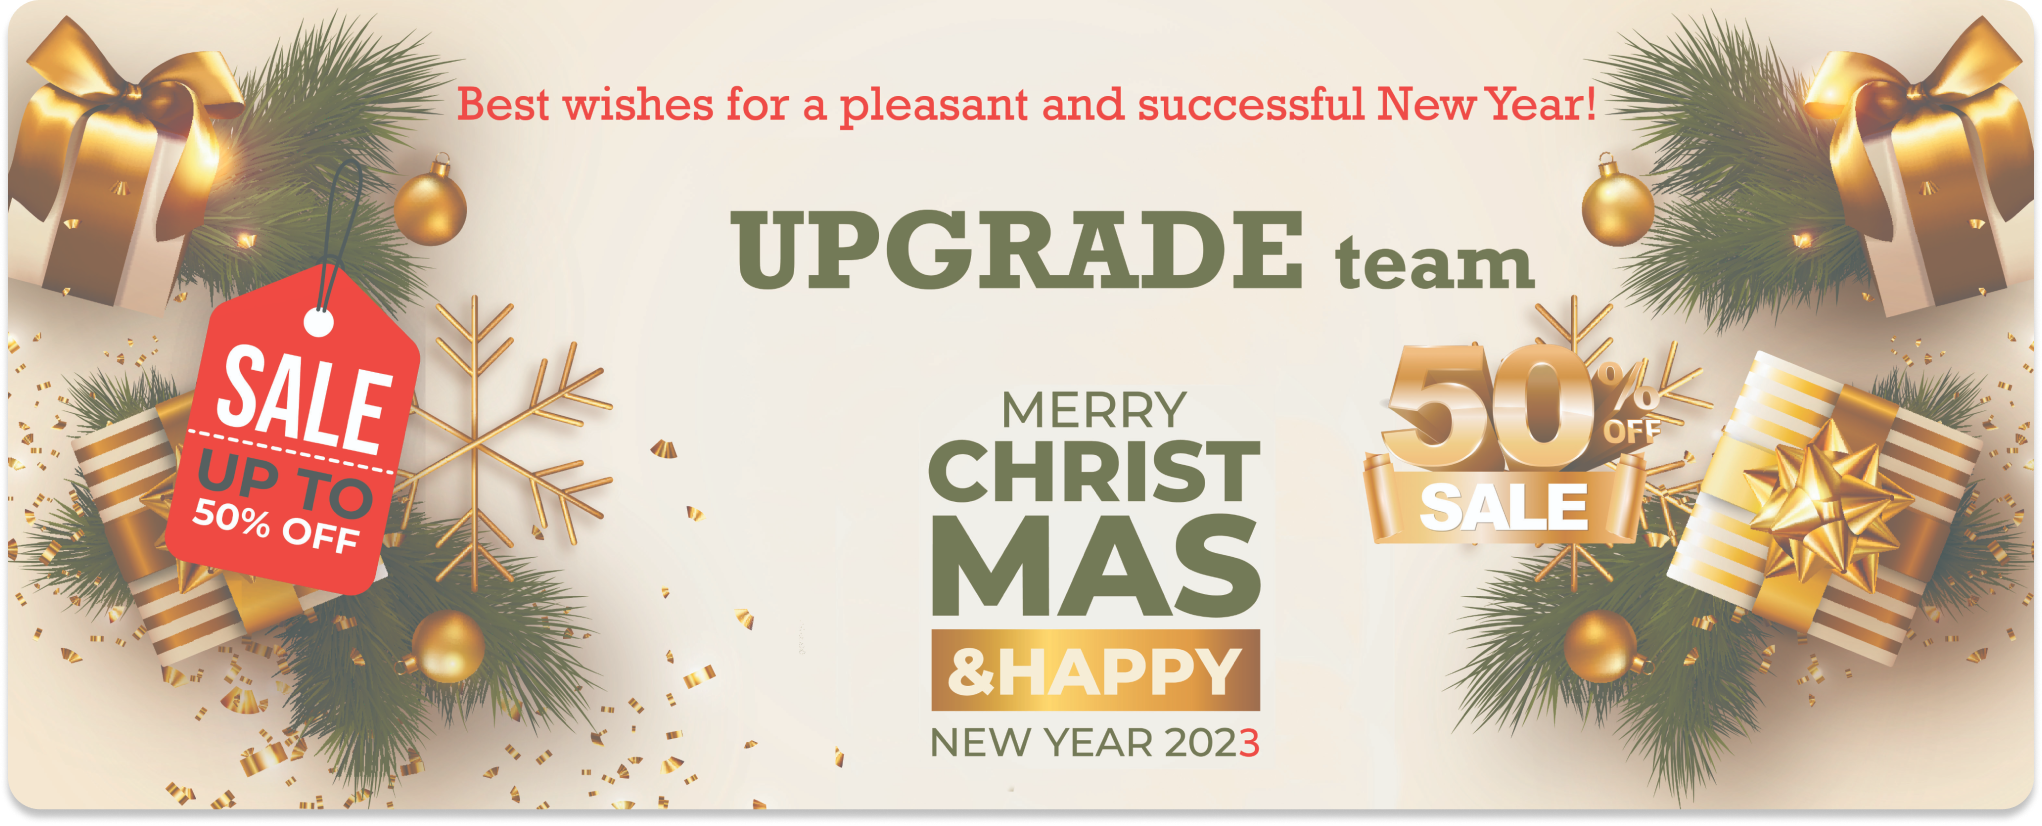
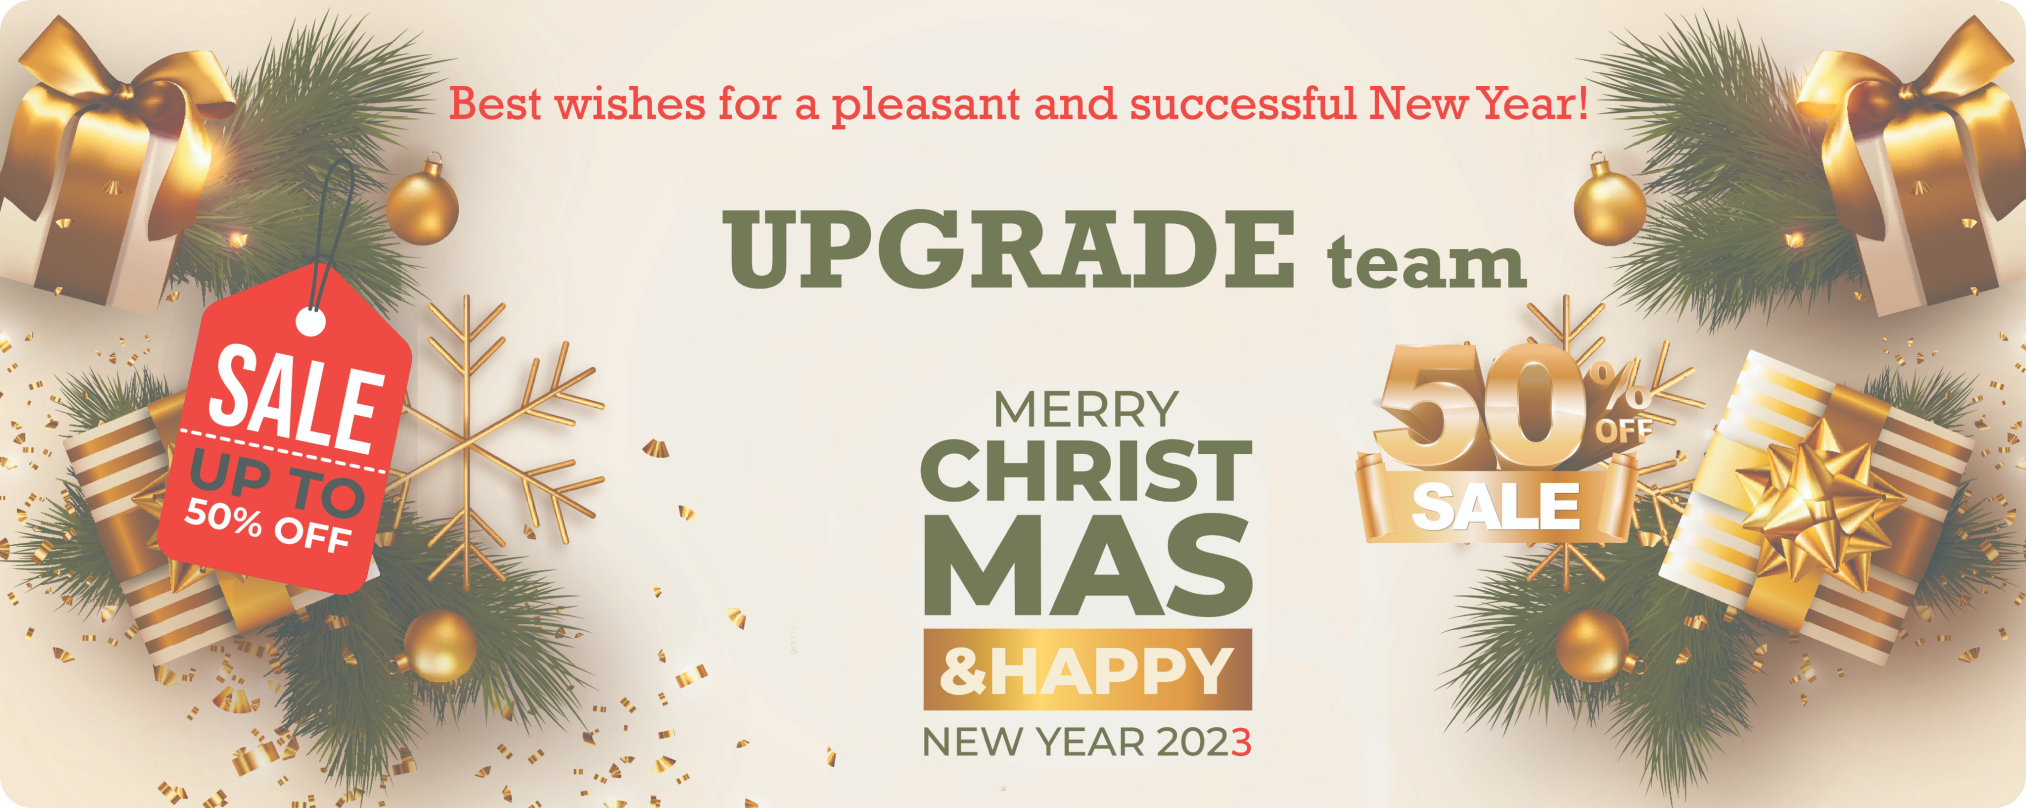
Pup Up с Рождественской картинкой

Changed region(s): [[0.0, 0.0, 1.0, 1.0], [0.3421, 0.7426, 0.3731, 0.7735]]

diff --git a/src/sass/components/_pop-up.scss b/src/sass/components/_pop-up.scss
@@ -1,5 +1,5 @@
 #parent_popup {
-    background-color: rgba(36, 63, 118, 0.7);
+    background-color: rgba(85, 86, 38, 0.7);
     display: none;
     position: fixed;
     z-index: 99999;
@@ -10,55 +10,80 @@
   }
 
   #popup { 
-    background: rgb(92, 188, 232);
+    background: rgb(280,215,192);
     
     @include for-size(phone) {
         width:  280px;
         height: auto;
        
         }
-   
+        @media screen and (min-width: 480px) and (max-width: 769px) {
+         width: 440px;
+        }
         @include for-size (tablet) { 
           width:  704px;
-        height: 405x;
+        height: 405x; 
+           
         }
 
        @include for-size (desktop)
        {
            width:  1013px;
-        height: 582px;
+        height: 404px;
  
        }
 
 
     margin: 5% auto;
-    border: 1px solid rgb(52, 113, 188);
     position: relative;
     /*--CSS3 Тени для Блока--*/
-    box-shadow: 0px 0px 20px rgb(28, 7, 135);
+    border: 1px solid rgb(29, 33, 18);
+    box-shadow: 0px 0px 20px rgb(58, 56, 71);
     /*--CSS3 Скругленные углы--*/
-color: #000;
+    color: #000;
      border-radius: 15px;
   }
   .close {
-    background-color: rgba(0, 0, 0, 0.4);
-    border: 2px solid rgb(70, 119, 204);
-    height: 24px;
-    line-height: 24px;
     position: absolute;
-    right: -24px;
+    border: 3px solid rgb(143, 157, 25);
+    background-color: rgba(79, 35, 35, 0.4);
     cursor: pointer;
-    font-weight: bold;
-    text-align: center;
-    text-decoration: none;
-    color: rgba(255, 255, 255, 0.9);
-    font-size: 14px;
-    text-shadow: 0 -1px rgba(0, 0, 0, 0.9);
-    top: -24px;
-    width: 24px;
-    border-radius: 15px;
-     box-shadow: 1px 1px 3px #000;
+    @include for-size(phone) {
+        right: -8px;
+        top: -8px;
+        width: 8px;
+        border-radius: 6px;
+        height: 8px;
+        line-height: 8px;
+        }
+        @media screen and (min-width: 480px) and (max-width: 769px) {
+            right: -18px;
+            top: -18px;
+            width: 18px;
+            border-radius: 12px;
+            height: 18px;
+            line-height: 18px; 
+           }
+        @include for-size (tablet) { 
+            right: -18px;
+            top: -18px;
+            width: 18px;
+            border-radius: 12px;
+            height: 18px;
+            line-height: 18px; 
+          
+        }
+
+       @include for-size (desktop)
+       {
+        right: -24px;
+        top: -24px;
+        width: 24px;
+        border-radius: 15px;
+        height: 24px;
+        line-height: 24px;
+       }
 }
 .close:hover {
-    background-color: rgba(61, 155, 214, 0.8);
+    background-color: rgba(280, 2154,192, 0.8);
 }

diff --git a/src/partials/pop-up.html b/src/partials/pop-up.html
@@ -4,14 +4,14 @@
    
   <img
   srcset="
-  ./images/gallery/pop-up-280.png   280w,
-  ./images/gallery/pop-up-560.png   560w,
-  ./images/gallery/pop-up-704.png   704w,
-  ./images/gallery/pop-up-101316.png 1013w,
-  ./images/gallery/pop-up-2026.png 2026w
+  ./images/gallery/CHRISTMAS_sale-280.png   280w,
+  ./images/gallery/CHRISTMAS_sale-560.png   560w,
+  ./images/gallery/CHRISTMAS_sale-704.png   704w,
+  ./images/gallery/CHRISTMAS_sale-1013.png 1013w,
+  ./images/gallery/CHRISTMAS_sale-2026.png 2026w
 "
 sizes="(min-width: 1200px) 1013px, (min-width: 768px) 704px, (min-width: 320px) 280px, 100vw"
-  src=" ./images/gallery/pop-up-101316.png"
+  src=" ./images/gallery/CHRISTMAS_sale-1013.png"
   alt="ice-cream"
   loading="lazy"
   width="1013"
@@ -20,4 +20,4 @@ sizes="(min-width: 1200px) 1013px, (min-width: 768px) 704px, (min-width: 320px) 
   <a class="close"title="Закрыть" onclick="document.getElementById('parent_popup').style.display='none';"></a>
   </div>
   </div>
-  
+   
